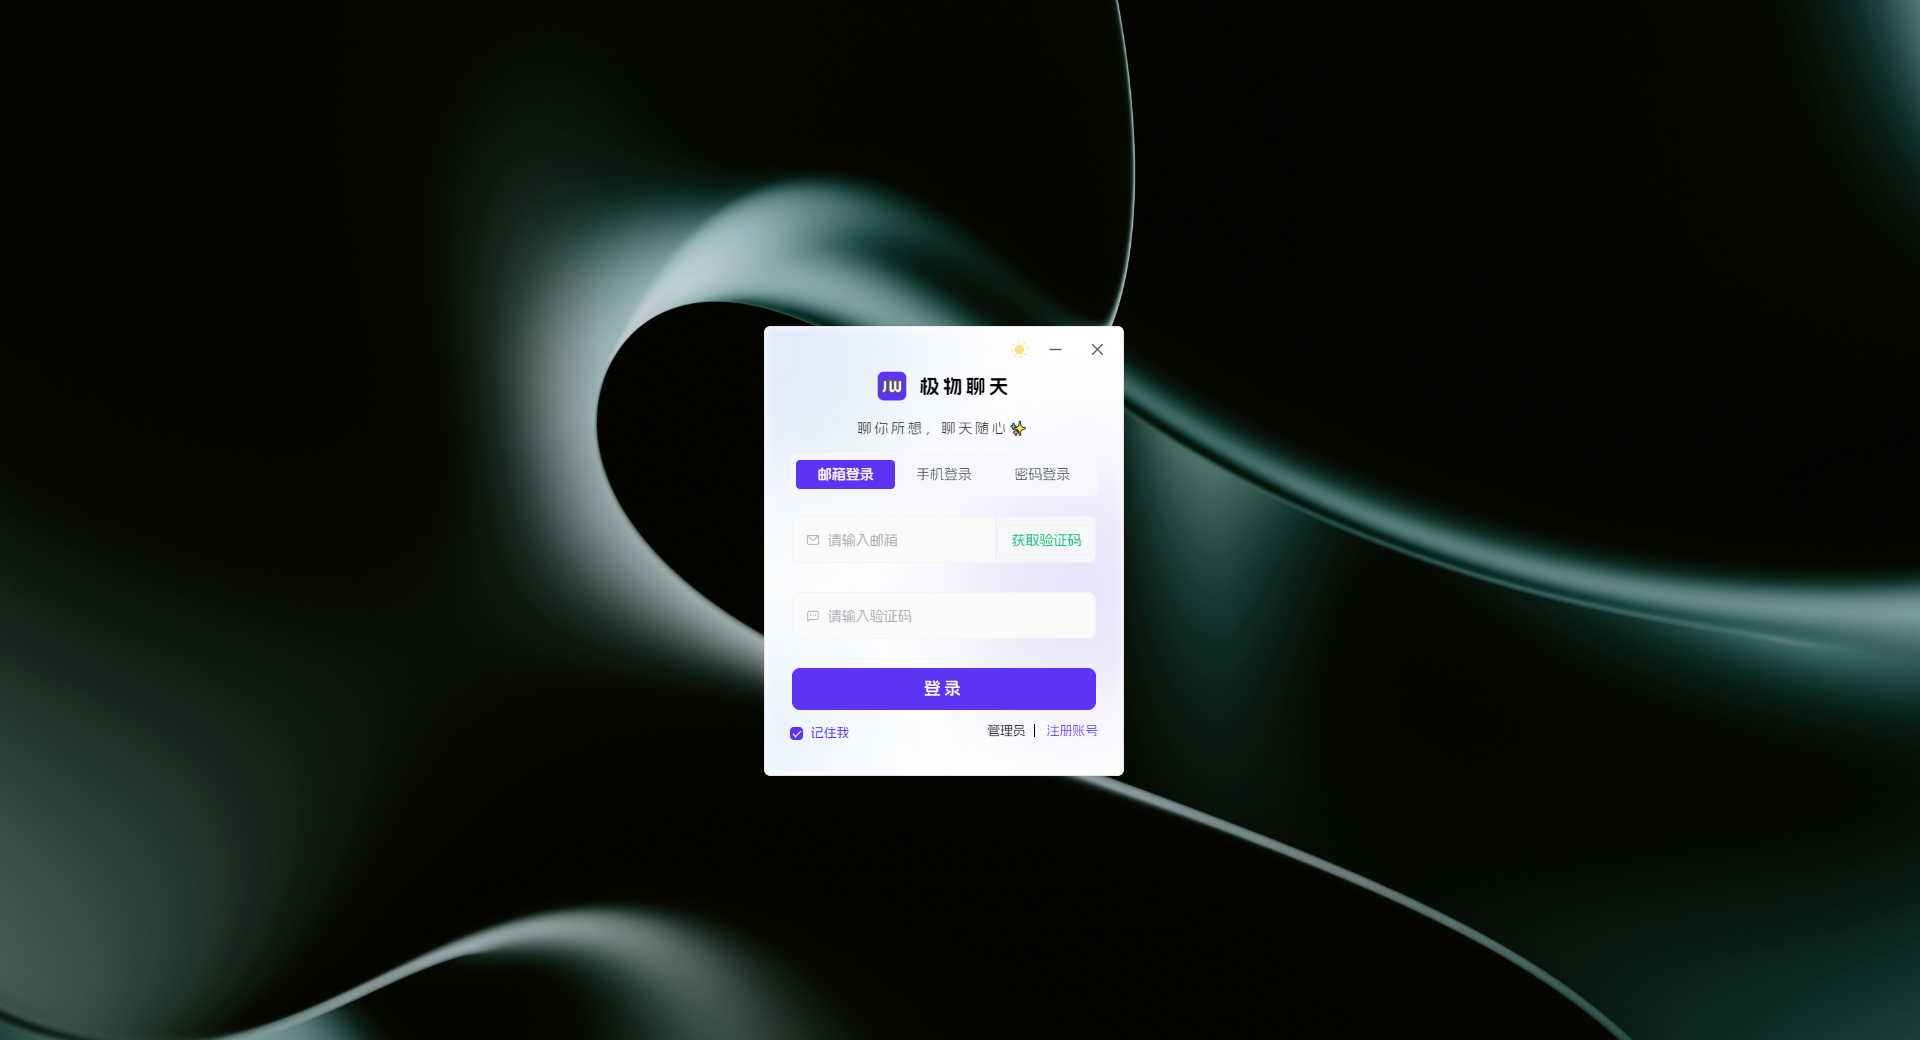
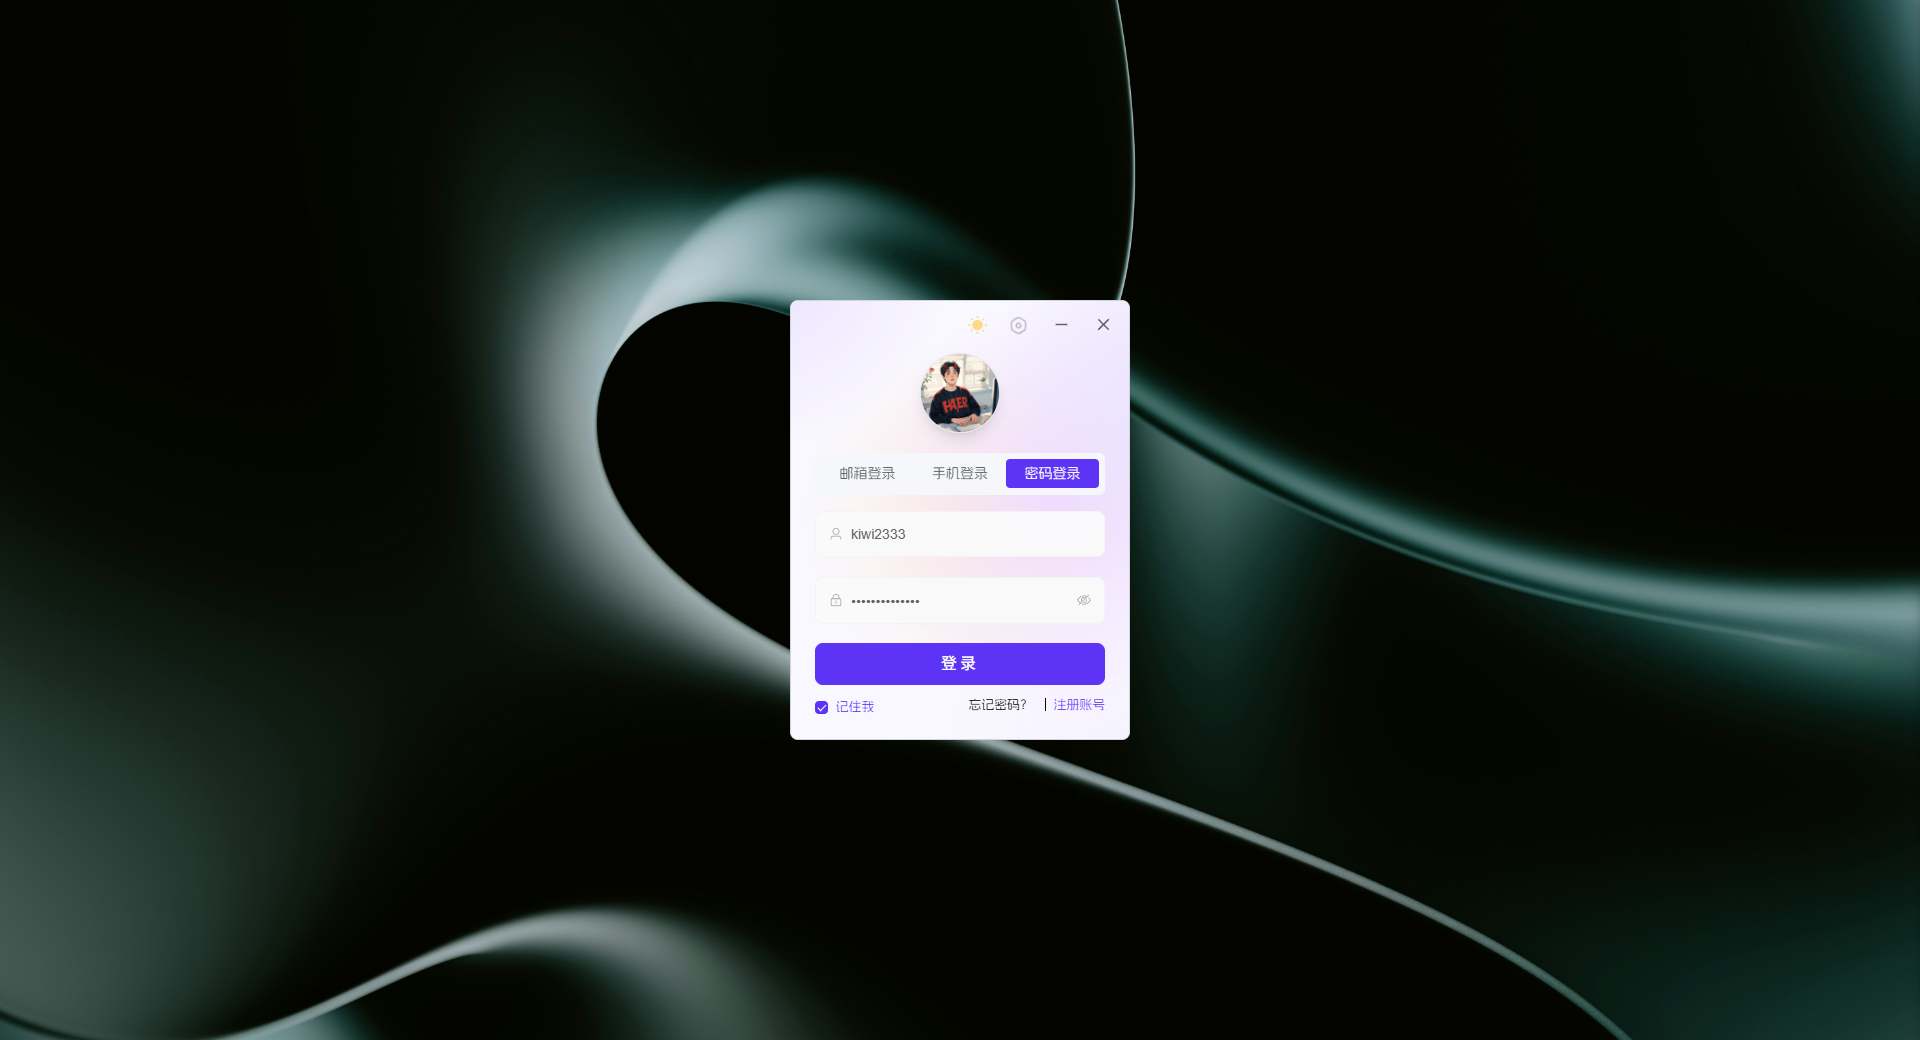
refactor(components): 优化图片上传和查看功能
- 更新登录和注册页面的截图
- 调整登录表单样式，增加全局字体设置
- 优化图片查看器功能，支持关闭回调和阻止默认行为
- 改进消息输入表单中的图片预览功能
- 优化登录页面的窗口大小调整逻辑

Changed region(s): [[0.375, 0.2769, 0.5938, 0.7692]]

diff --git a/components/image/ImageViewer.vue b/components/image/ImageViewer.vue
@@ -34,7 +34,7 @@ const keyDownFnMap: Record<string, () => void> = {
   "r": rotateClockwise,
   "R": rotateAnticlockwise,
   "0": resetImage,
-  // "Escape": close,
+  "Escape": close,
 };
 
 // 使用 localStorage 存储用户是否不再显示提示
@@ -65,17 +65,20 @@ export interface ViewerOptions {
   initialIndex?: number;
   index?: number;
   ctxName?: string;
+  closeCallback?: () => void;
 }
 export interface ImageViewerState {
   visible: boolean;
   index: number;
   urlList: string[];
+  closeCallback?: () => void;
 }
 
 const state = reactive<ImageViewerState>({
   visible: false,
   index: 0,
   urlList: [],
+  closeCallback: () => {},
 });
 
 // 图片操作状态
@@ -133,6 +136,7 @@ function open(options: ViewerOptions) {
   state.index = options.index || 0;
   state.urlList = options.urlList || [];
   state.visible = true;
+  state.closeCallback = options.closeCallback;
   if (setting.isMobileSize && showShortcutTips.value) {
     showShortcutTips.value = false;
   }
@@ -153,6 +157,7 @@ function open(options: ViewerOptions) {
 // 关闭预览
 function close() {
   state.visible = false;
+  nextTick(state.closeCallback);
 }
 
 // 保存图片
@@ -203,6 +208,8 @@ function handleKeydown(e: KeyboardEvent) {
   // 没有其他快捷键
   // if (e.ctrlKey || e.metaKey || e.altKey || e.shiftKey || e.key.length > 1)
   //   return;
+  e.stopPropagation(); // 阻止事件冒泡
+  e.preventDefault(); // 阻止默认行为
   keyDownFnMap[e.key]?.();
 }
 

diff --git a/pages/login.vue b/pages/login.vue
@@ -19,12 +19,13 @@ const setting = useSettingStore();
 onMounted(async () => {
   user.showLoginPageType = "login";
   if (setting.isDesktop) {
+    const wind = getCurrentWindow();
     watch(() => user.showLoginPageType, async (val) => {
       if (val !== "") {
         // 关闭窗口动画
         const height = val === "login" ? 440 : val === "register" ? 480 : val === "env-config" ? 460 : 460;
         if (setting.settingPage.isCloseAllTransition) {
-          getCurrentWindow()?.setSize(new LogicalSize(340, height));
+          wind?.setSize(new LogicalSize(340, height));
           return;
         }
         // 窗口动画

diff --git a/composables/hooks/msg/useMsgInputForm.ts b/composables/hooks/msg/useMsgInputForm.ts
@@ -320,9 +320,14 @@ class ImageManager {
           container.remove();
         }
         else if (target.tagName === "IMG") {
+          // 创建图片查看器
+          const url = URL.createObjectURL(container.__imageFile || file);
           useImageViewer.open({
-            urlList: [img.src],
+            urlList: [url],
             initialIndex: 0,
+            closeCallback() {
+              URL.revokeObjectURL(url);
+            },
           });
         }
       });

diff --git a/assets/styles/init.scss b/assets/styles/init.scss
@@ -55,6 +55,10 @@ body {
   // border-radius: 0.375rem;
   -webkit-tap-highlight-color: transparent;
   overflow: hidden; // 解决触摸板拖拽
+
+  * {
+    font-family: var(--font-family);
+  }
 }
 ::selection {
   background-color: var(--el-color-primary);

diff --git a/components/form/LoginForm.vue b/components/form/LoginForm.vue
@@ -605,7 +605,7 @@ defineExpose({
 }
 .has-account {
   .header {
-    --at-apply: "h-28 flex-row-c-c";
+    --at-apply: "h-30 flex-row-c-c";
   }
   .avatar {
     --at-apply: "mx-a h-20 w-20 border-2px border-default rounded-full shadow-lg block";
